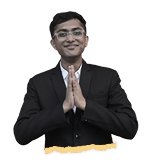
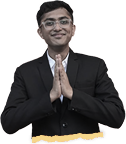
updated contact page to new design

diff --git a/src/pages/contact/components/contactGallery/ContactGallery.module.scss b/src/pages/contact/components/contactGallery/ContactGallery.module.scss
@@ -33,8 +33,8 @@
                 position: relative;
                 display: flex;
 
-                $template: 1;
-                aspect-ratio: 1.05;
+                $template: 2;
+                aspect-ratio: 1.131;
                 background-image: url("/images/contact/ContactCard" + $template + ".png");
                 background-size: cover;
 
@@ -46,19 +46,22 @@
                     position: relative;
                     left: 50%;
                     margin-top: auto;
-                    margin-bottom: 15%;
-                    transform: translateX(-50%) rotateZ(5deg);
+                    margin-bottom: 9%;
+                    transform: translateX(-50%) rotateZ(-4deg);
                     .contactImgContainer {
                         display: flex;
                         align-items: center;
                         min-width: 42%;
+                        max-height: 100%;
                         img {
                             width: 100%;
+                            max-height: 100%;
                         }
 
                         @media (max-width: 600px) {min-width: 30%;}
                     }
                     .contactDetails {
+                        flex: 1;
                         display: flex;
                         gap: 0.1rem;
                         flex-direction: column;
@@ -77,6 +80,8 @@
                             -webkit-line-clamp: 2;
                             line-clamp: 2;
                             overflow: hidden;
+                            display: -webkit-box;
+                            -webkit-box-orient: vertical;
                             text-overflow: ellipsis;
                         }
                         .contactLinks {
@@ -93,9 +98,20 @@
                         }
 
                         @media (max-width: 600px) {
-                            .contactName {font-size: 0.9rem;}
-                            .contactPosition {font-size: 0.6rem;}
-                            .contactLinks .contactIcon {font-size: 0.9rem;}
+                            .contactName {font-size: 0.6rem; line-height: 0.6rem;}
+                            .contactPosition {font-size: 0.4rem; line-height: 0.4rem;}
+                            .contactLinks {
+                                gap: 0.5rem;
+                                div {
+                                    height: 0.4rem;
+                                    .contactIcon {
+                                        font-size: 0.4rem; 
+                                        height: 0.4rem;
+                                        position: relative;
+                                        top: -0.3rem;
+                                    }
+                                }
+                            }
                         }
                     }
                 }
@@ -103,12 +119,12 @@
 
             @media (max-width: 1500px) {
                 grid-template-columns: 1fr;
-                gap: 3rem;
+                gap: 1rem;
             }
         }
 
         @media (max-width: 900px) {
-            grid-template-columns: 1fr;
+            // grid-template-columns: 1fr;
             gap: 3rem;
         }
     }

diff --git a/src/pages/contact/Contact.module.scss b/src/pages/contact/Contact.module.scss
@@ -4,14 +4,22 @@
     height: 100vh;
     overflow-y: scroll;
 
-    &::-webkit-scrollbar {display: none;}
-    .contactSection, .contactPage {
+    &::-webkit-scrollbar {
+        display: none;
+    }
+
+    .contactSection,
+    .contactPage {
         position: relative;
         width: 100svw;
 
         .contactContent {
             padding: 1.2rem 1.8rem;
             position: relative;
+
+            @media (max-width: 600px) {
+                padding: 0.6rem 0.9rem;
+            }
         }
 
         .contactBg {
@@ -30,17 +38,26 @@
                 // max-height: 100%;
                 // object-fit: cover;
 
-                &:nth-of-type(1) {object-position: right;}
-                &:nth-of-type(2) {object-position: left;}
+                &:nth-of-type(1) {
+                    object-position: right;
+                }
+
+                &:nth-of-type(2) {
+                    object-position: left;
+                }
             }
         }
     }
 
     .contactPage {
-        background-size: auto;
+        background-size: 100vw auto;
         background-repeat: repeat;
         background-position: center;
         min-height: 100vh;
+
+        @media (max-width: 900px) {
+            background-size: 180vw auto;
+        }
     }
 
     .contactDoors {
@@ -63,10 +80,17 @@
                 object-fit: cover;
             }
 
-            &:nth-of-type(1) .contactBgImg {object-position: right;}
-            &:nth-of-type(2) .contactBgImg {object-position: left;}
+            &:nth-of-type(1) .contactBgImg {
+                object-position: right;
+            }
+
+            &:nth-of-type(2) .contactBgImg {
+                object-position: left;
+            }
         }
 
-        &::-webkit-scrollbar {display: none;}
-}
+        &::-webkit-scrollbar {
+            display: none;
+        }
+    }
 }
